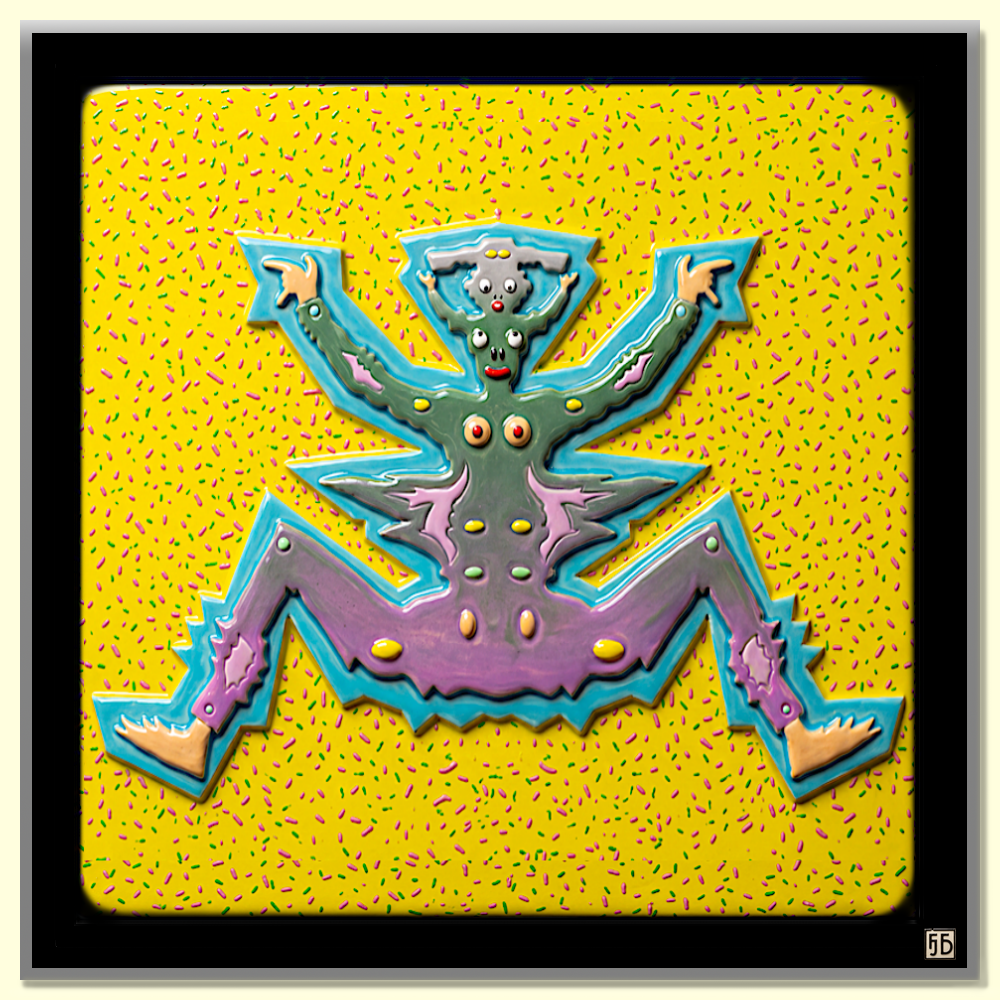
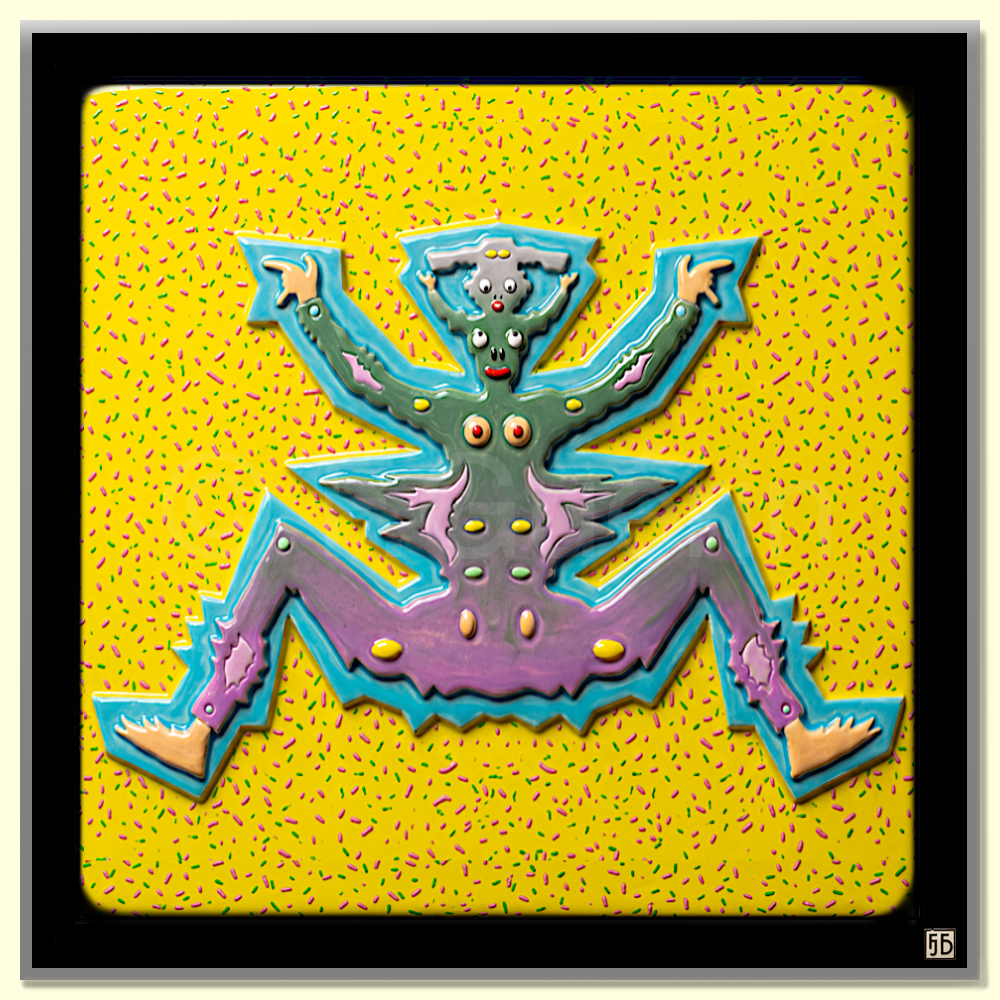
changements textes et buttons

Changed region(s): [[0.62, 0.465, 0.837, 0.558], [0.155, 0.434, 0.279, 0.558], [0.31, 0.496, 0.341, 0.558]]

diff --git a/src/pages/MuseoFile/FrancaisMuseo.js b/src/pages/MuseoFile/FrancaisMuseo.js
@@ -32,23 +32,13 @@ const FrancaisMuseo = () => {
             <p>Collection Museo Infinito</p>{" "}
           </div>
 
-          <div className={styles.MailLink}>
-            {" "}
-            <p>Pour toutes informations : </p>
-            <a href="mailto:fguerin555a@gmail.com">fguerin555@gmail.com</a>
-          </div>
-
           <div className={styles.Text}>
             <p>
-              Soyez un collectionneur d’art et suivez l’évolution du "MUSEO
-              INFINITO" Art contemporain accessible... Peintures à l’huile sur
-              toile carton (14,5 x 9 cm - 5,71 x 3,54 pouces), toutes signées et
-              numérotées, 20 euros l'exemplaire. Suivant le concept des musées
-              qui accueillent différents langages artistiques, un nouvel art
-              freestyle est né, qui raconte la relation entre l’œuvre et le
-              public.
+              "MUSEO INFINITO" (- 2012-2015 -) 800 Huiles sur toiles cartonnées
+              14,5 x 9 cm.
+              <p>Free Style Museum Visit</p>
             </p>
-            <p> Frédéric Guérin</p>
+            <p>Frédéric Guérin</p>
           </div>
 
           <div className={styles.ButtonContainer}>

diff --git a/src/pages/MuseoFile/EnglishMuseo.js b/src/pages/MuseoFile/EnglishMuseo.js
@@ -32,23 +32,13 @@ const EnglishMuseo = () => {
             <p>Museo Infinito Collection</p>{" "}
           </div>
 
-          <div className={styles.MailLink}>
-            {" "}
-            <p>For any informations : </p>
-            <a href="mailto:fguerin555a@gmail.com">fguerin555@gmail.com</a>
-          </div>
-
           <div className={styles.Text}>
             <p>
-              Be an art collector and follow the evolution of the "MUSEO
-              INFINITO" The affordable contemporary art….. Small-size oil
-              paintings on cardboard canvas (14,5 x 9 cm - 5,71 x 3,54 inches),
-              all signed and numbered, at 20 Euro each. Following the concept of
-              museums housing different artistic languages, a new freestyle art
-              is born, that tells the relationship between the artwork and the
-              public
+              "MUSEO INFINITO" (- 2012-2015 -) 800 oil paintings on
+              canvas-covered board 14.5 x 9 cm.
+              <p>Free Style Museum Visit</p>
             </p>
-            <p> Frédéric Guérin</p>
+            <p>Frédéric Guérin</p>
           </div>
 
           <div className={styles.ButtonContainer}>

diff --git a/src/pages/MuseoFile/ItalianoMuseo.js b/src/pages/MuseoFile/ItalianoMuseo.js
@@ -32,23 +32,13 @@ const ItalianoMuseo = () => {
             <p>Collezione Museo Infinito</p>{" "}
           </div>
 
-          <div className={styles.MailLink}>
-            {" "}
-            <p>Per tutte le informazione : </p>
-            <a href="mailto:fguerin555a@gmail.com">fguerin555@gmail.com</a>
-          </div>
-
           <div className={styles.Text}>
             <p>
-              Essere un collezionista d'arte e seguire l'evoluzione del "MUSEO
-              INFINITO" L'arte contemporanea accessibile..... Pitture ad olio su
-              tela di cartone (14,5 x 9 cm - 5,71 x 3,54 pollici), tutte firmate
-              e numerate, a 20 euro l'una. Seguendo il concetto di musei che
-              ospitano diversi linguaggi artistici, nasce una nuova arte
-              freestyle, che racconta la relazione tra l'opera d'arte e il
-              pubblico.
+              "MUSEO INFINITO" (- 2012-2015 -) 800 oli su tela cartonata 14,5 x
+              9 cm.
+              <p>Free Style Museum Visit</p>
             </p>
-            <p> Frédéric Guérin</p>
+            <p>Frédéric Guérin</p>
           </div>
 
           <div className={styles.ButtonContainer}>
